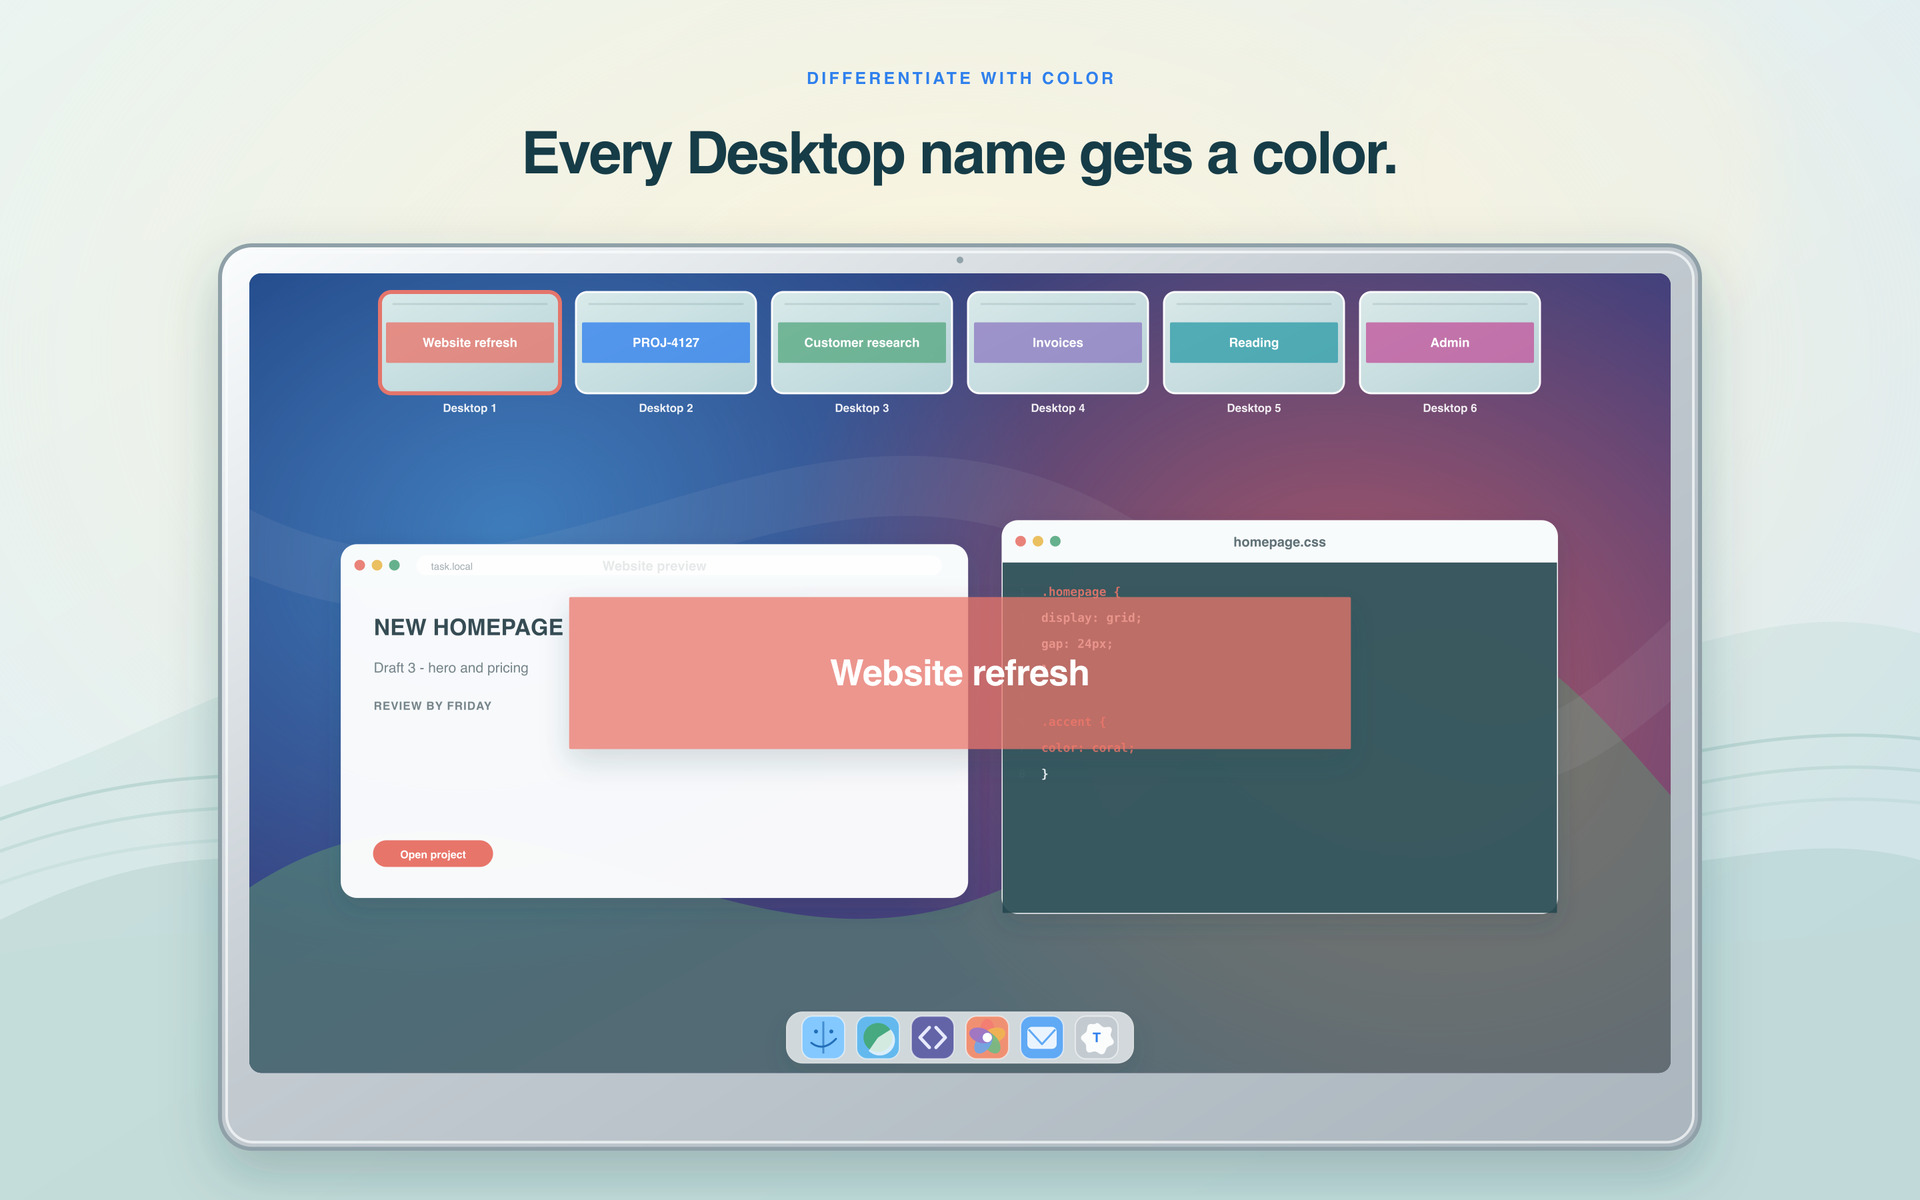
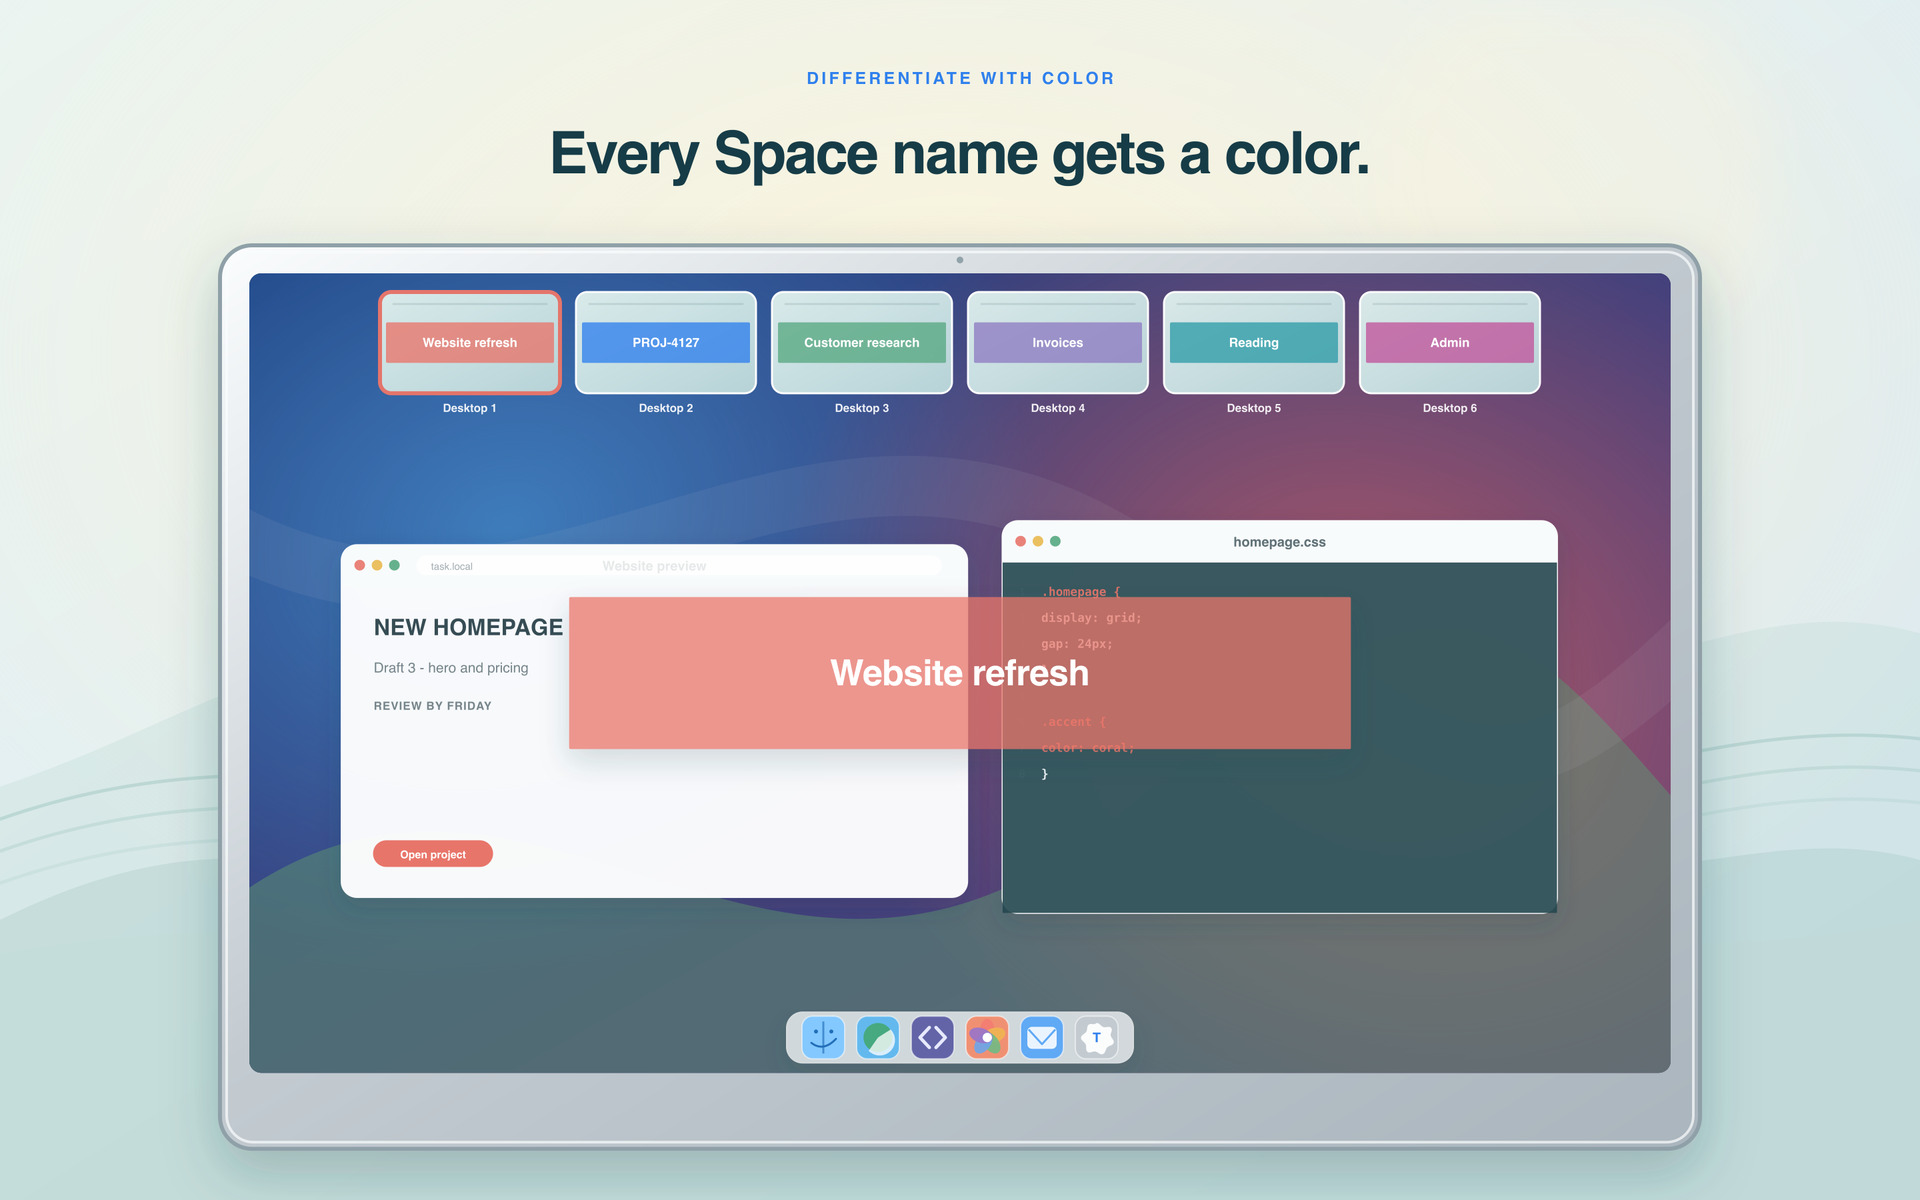
new is better

Changed region(s): [[0.25, 0.0925, 0.7188, 0.1542]]

diff --git a/support/index.html b/support/index.html
@@ -177,7 +177,7 @@
     </a>
 
     <h1>Support</h1>
-    <p class="intro"><strong>Version 1.1.0.</strong> Task is a small macOS menu-bar app that gives each numbered Mission Control Desktop a name, keeps that name visible in the Mission Control overview, and shows the Desktop you are on in the menu bar.</p>
+    <p class="intro"><strong>Version 1.1.0.</strong> Task is a small macOS menu-bar app that gives each macOS Space a meaningful name, keeps that name visible in the Mission Control overview, and shows your current numbered Desktop in the menu bar.</p>
 
     <section>
       <h2>Getting started</h2>
@@ -190,14 +190,14 @@
       <p>The tag-shaped menu-bar icon contains the current numbered Desktop. Fullscreen and Split View Spaces leave the tag unnumbered, and carry no badge, because macOS does not assign them a Desktop number.</p>
       <figure class="setup-figure">
         <img src="/screenshots/task_best_mission_control_configuration.png" width="1344" height="942" loading="lazy" alt="macOS Mission Control keyboard shortcuts configured for moving left and right and switching directly to Desktops 1 through 9">
-        <figcaption>A good keyboard configuration for Task: keep the shortcuts for moving left and right, and assign Control–1 through Control–9 to numbered Desktops. You can switch directly or browse sequentially while Task shows the name of the Desktop where you land.</figcaption>
+        <figcaption>A good keyboard configuration for Task: keep the shortcuts for moving left and right, and assign Control–1 through Control–9 to numbered Desktops. You can switch directly or browse sequentially while Task shows the name of the Space where you land.</figcaption>
       </figure>
     </section>
 
     <section>
-      <h2>Name your Desktops</h2>
-      <p>Click the Task menu-bar icon. The text field at the top of the menu holds the current Desktop’s name, already selected, so you can type straight over it. The name is saved when you press Return, click elsewhere, or close the menu.</p>
-      <p>For bulk edits, choose <strong>Configuration…</strong>. Task opens the local plain-text file in your default text editor. Add one numbered name per line:</p>
+      <h2>Name your Spaces</h2>
+      <p>Click the Task menu-bar icon. The text field at the top of the menu holds the current Space’s name, already selected, so you can type straight over it. The name is saved when you press Return, click elsewhere, or close the menu.</p>
+      <p>For bulk edits, choose <strong>Configuration…</strong>. Task opens the local plain-text file in your default text editor. Add one numbered Space name per line:</p>
       <pre># Task configuration
 # This file is managed by Task. Manual edits are supported, but Task
 # normalizes formatting and discards custom comments and unknown keys when saving.
@@ -219,35 +219,35 @@ differentiateWithColor = true
 2.color = #2F80ED</pre>
       <p>The file is stored locally at:</p>
       <p><code>~/Library/Containers/com.500nits.Task/Data/Library/Application Support/Task/spaces.txt</code></p>
-      <p>Task does not overwrite the file when it launches or when you switch Desktops. It writes when you rename a Desktop, release the splash-duration slider, toggle <strong>Differentiate with Color</strong>, refresh the workspaces, or complete a verified numbered-Desktop reorder in Mission Control.</p>
-      <p><code>spaces.txt</code> is an app-owned canonical file. When Task writes it, duplicate entries collapse to their last value, custom comments, unknown keys and custom formatting are removed, and entries beyond the live Desktop count are dropped. Every live Desktop always ends up with a concrete name; a missing or cleared entry is written back as <code>Task N</code>.</p>
-      <p>If you drag numbered Desktops into a new order in Mission Control, Task uses their stable identities to move each name — and its colour — to its new Desktop number automatically.</p>
+      <p>Task does not overwrite the file when it launches or when you switch Spaces. It writes when you rename a Space, release the splash-duration slider, toggle <strong>Differentiate with Color</strong>, refresh the workspaces, or complete a verified numbered-Desktop reorder in Mission Control.</p>
+      <p><code>spaces.txt</code> is an app-owned canonical file. When Task writes it, duplicate entries collapse to their last value, custom comments, unknown keys and custom formatting are removed, and entries beyond the number of Spaces you actually have are dropped. Every live Space always ends up with a concrete name; a missing or cleared entry is written back as <code>Task N</code>.</p>
+      <p>If you drag your Spaces into a new order in Mission Control, Task uses their stable identities to move each name — and its color — to its new Desktop number automatically.</p>
     </section>
 
     <section>
       <h2>Names in Mission Control</h2>
-      <p>Each named Desktop carries one large badge across the middle of its thumbnail. The badge uses the full available screen width at a fixed size; a name too long for one line splits over two, and a name that still does not fit displays <code>overflown</code>.</p>
-      <p>Badges appear when you open Mission Control, and briefly after you move to another Desktop. The rest of the time they stay invisible and your screen is unobstructed, including in Application Windows.</p>
+      <p>Each named Space carries one large badge across the middle of its thumbnail. The badge uses the full available screen width at a fixed size; a name too long for one line splits over two, and a name that still does not fit displays <code>overflown</code>.</p>
+      <p>Badges appear when you open Mission Control, and briefly after you move to another Space. The rest of the time they stay invisible and your screen is unobstructed, including in Application Windows.</p>
     </section>
 
     <section>
       <h2>Differentiate with Color</h2>
-      <p>Click the Task menu-bar icon and choose <strong>Differentiate with Color</strong>. Each named Desktop is given its own colour, distributed across the full spectrum and randomly rotated, so neighbouring Desktops stay easy to tell apart.</p>
-      <p>Colours are written into <code>spaces.txt</code> as <code>N.color</code> entries and survive ordinary relaunches. Switching the option off and back on generates a fresh set. To choose your own, edit the file and give a three- or six-digit HTML hex colour; Task stores the canonical six-digit <code>#RRGGBB</code> form.</p>
+      <p>Click the Task menu-bar icon and choose <strong>Differentiate with Color</strong>. Each named Space is given its own color, distributed across the full spectrum and randomly rotated, so Spaces next to each other stay easy to tell apart.</p>
+      <p>Colors are written into <code>spaces.txt</code> as <code>N.color</code> entries and survive ordinary relaunches. Switching the option off and back on generates a fresh set. To choose your own, edit the file and give a three- or six-digit HTML hex color; Task stores the canonical six-digit <code>#RRGGBB</code> form.</p>
     </section>
 
     <section>
       <h2>Set the splash duration</h2>
-      <p>Click the Task icon and use the <strong>Splash duration</strong> slider. It controls how long a Desktop’s badge stays visible after you move to that Desktop. Choose any value from 0.0 to 5.0 seconds; the default is 1.5 seconds, and 0.0 turns the switching badge off while leaving the Mission Control badge in place.</p>
+      <p>Click the Task icon and use the <strong>Splash duration</strong> slider. It controls how long a Space’s badge stays visible after you move to it. Choose any value from 0.0 to 5.0 seconds; the default is 1.5 seconds, and 0.0 turns the switching badge off while leaving the Mission Control badge in place.</p>
       <p>The value is saved when you release the slider, as <code>splashDuration</code> in <code>spaces.txt</code>. If that setting is missing or invalid, Task uses the 1.5-second default without rewriting the file.</p>
     </section>
 
     <section>
       <h2>When Task appears</h2>
-      <p>A Desktop’s name is shown:</p>
+      <p>A Space’s name is shown:</p>
       <ul>
         <li>across its thumbnail whenever Mission Control is open;</li>
-        <li>on screen for the splash duration when you move to that Desktop.</li>
+        <li>on screen for the splash duration when you move to that Space.</li>
       </ul>
       <p>If you use more than one display, Task shows the name on every connected display.</p>
     </section>
@@ -256,10 +256,10 @@ differentiateWithColor = true
       <h2>Menu-bar controls</h2>
       <p>The small number inside Task’s tag shows the current numbered Desktop. Click the icon for:</p>
       <ul>
-        <li>the editable name of the current Desktop;</li>
+        <li>the editable name of the current Space;</li>
         <li><strong>Differentiate with Color</strong>;</li>
         <li>the <strong>Splash duration</strong> slider;</li>
-        <li><strong>Refresh Workspaces</strong>, which rereads <code>spaces.txt</code>, reconciles the badges against the Desktops that are actually there, and shows the current Desktop’s badge so you can see it worked;</li>
+        <li><strong>Refresh Workspaces</strong>, which rereads <code>spaces.txt</code>, reconciles the badges against the Spaces that are actually there, and shows the current Desktop’s badge so you can see it worked;</li>
         <li><strong>Configuration…</strong>, which opens <code>spaces.txt</code> in your default text editor;</li>
         <li><strong>Start at Login</strong>, always opt-in — Task never enables it for you;</li>
         <li><strong>About Task</strong> and <strong>Quit Task</strong>.</li>
@@ -274,13 +274,13 @@ differentiateWithColor = true
     <section>
       <h2>Troubleshooting</h2>
       <h3>The wrong name appears</h3>
-      <p>Confirm that both Mission Control settings listed above are off, then check that the number in <code>spaces.txt</code> matches the Desktop’s position in Mission Control. <strong>Refresh Workspaces</strong> reconciles the two.</p>
+      <p>Confirm that both Mission Control settings listed above are off, then check that the number in <code>spaces.txt</code> matches the Space’s position in Mission Control. <strong>Refresh Workspaces</strong> reconciles the two.</p>
 
       <h3>No name appears after editing</h3>
-      <p>Edits in the menu field save when you press Return, click elsewhere, or close the menu. If you edit the full configuration instead, save it as plain text and keep one mapping per line in the form <code>number = name</code>. Then switch Desktops or choose <strong>Refresh Workspaces</strong>.</p>
+      <p>Edits in the menu field save when you press Return, click elsewhere, or close the menu. If you edit the full configuration instead, save it as plain text and keep one mapping per line in the form <code>number = name</code>. Then switch Spaces or choose <strong>Refresh Workspaces</strong>.</p>
 
       <h3>No badge appears in Mission Control</h3>
-      <p>Only named numbered Desktops get a badge. Fullscreen and Split View Spaces never do. If a numbered Desktop is missing its badge, choose <strong>Refresh Workspaces</strong>.</p>
+      <p>Only a named Space with a Desktop number gets a badge. Fullscreen and Split View Spaces never do. If a numbered Space is missing its badge, choose <strong>Refresh Workspaces</strong>.</p>
 
       <h3>Task is not visible</h3>
       <p>Look for its numbered tag-shaped icon in the macOS menu bar. If the menu bar is crowded, macOS or a menu-bar manager may have hidden it.</p>

diff --git a/index.html b/index.html
@@ -4,12 +4,12 @@
   <meta charset="utf-8">
   <meta name="viewport" content="width=device-width, initial-scale=1">
   <title>Task: Name your macOS Spaces</title>
-  <meta name="description" content="Name your macOS Desktops and read those names straight off the Mission Control overview. Task shows the current Desktop in the menu bar and gives every named Desktop its own colour.">
+  <meta name="description" content="Name your macOS Spaces and read those names straight off the Mission Control overview. Task shows your current numbered Desktop in the menu bar and gives every named Space its own color.">
   <link rel="canonical" href="https://task.500nits.com/">
   <link rel="icon" sizes="32x32" href="/favicon.ico" />
   <link rel="icon" type="image/svg+xml" href="/favicon.svg" />
   <meta property="og:title" content="Task: Name your macOS Spaces">
-  <meta property="og:description" content="macOS gives you Desktop 1, Desktop 2, Desktop 3. Task gives them names and writes each one across its thumbnail in Mission Control.">
+  <meta property="og:description" content="Give each macOS Space a name, see it written across its thumbnail in Mission Control, and tell your Spaces apart by color.">
   <meta property="og:url" content="https://task.500nits.com/">
   <meta property="og:type" content="website">
   <meta property="og:image" content="https://task.500nits.com/icon.png">
@@ -289,35 +289,35 @@
       <img src="/screenshots/task-menu-bar.png" width="2172" height="724" alt="macOS menu bar showing Task on Desktop 9">
     </div>
     <p class="eyebrow">Version 1.1.0 · A tiny macOS menu-bar app</p>
-    <h1>Know which Desktop is which.</h1>
-    <p class="intro">macOS gives you Desktop 1, Desktop 2, Desktop 3. Task gives them names and writes each name across its thumbnail in Mission Control, so the overview tells you where everything is. The menu-bar tag shows the Desktop you are on right now.</p>
+    <h1>Know what every Space is for.</h1>
+    <p class="intro">Task gives each macOS Space a meaningful name, then writes that name across its thumbnail in Mission Control, so the overview tells you where everything is. The menu-bar tag shows your current numbered Desktop at a glance.</p>
     <a class="cta" href="https://apps.apple.com/app/id6793942588">Download on the Mac App Store</a>
     <p class="requirement">Task needs two Mission Control settings turned off in System Settings → Desktop &amp; Dock: <strong>Displays have separate Spaces</strong> and <strong>Automatically rearrange Spaces based on most recent use</strong>.</p>
     <div class="screenshots">
-      <img src="/screenshots/mission-control.jpg" width="1920" height="1200" alt="Mission Control with seven Desktops, each thumbnail labelled with its name, and the current Desktop showing a large Customer research badge">
-      <img src="/screenshots/name-the-desktop.jpg" width="1920" height="1200" loading="lazy" alt="Task's menu open from the menu bar with the current Desktop name PROJ-4127 in an editable field">
-      <img src="/screenshots/differentiate-with-color.jpg" width="1920" height="1200" loading="lazy" alt="Mission Control with six named Desktops, each label drawn in a different colour">
+      <img src="/screenshots/mission-control.jpg" width="1920" height="1200" alt="Mission Control with seven Spaces, each thumbnail labelled with its name, and the current Space showing a large Customer research badge">
+      <img src="/screenshots/name-the-space.jpg" width="1920" height="1200" loading="lazy" alt="Task's menu open from the menu bar with the current Space name PROJ-4127 in an editable field">
+      <img src="/screenshots/differentiate-with-color.jpg" width="1920" height="1200" loading="lazy" alt="Mission Control with six named Spaces, each label drawn in a different color">
     </div>
     <section class="features" aria-label="Task features">
       <article class="feature">
         <h2>Names in Mission Control</h2>
-        <p>Every named Desktop carries a large badge across the middle of its thumbnail, split over two lines when the name is long.</p>
+        <p>Every named Space carries a large badge across the middle of its thumbnail, split over two lines when the name is long.</p>
       </article>
       <article class="feature">
         <h2>Differentiate with Color</h2>
-        <p>Each named Desktop takes its own colour from across the spectrum. Colours are saved and survive relaunches.</p>
+        <p>Each named Space takes its own color from across the spectrum. Colors are saved and survive relaunches.</p>
       </article>
       <article class="feature">
-        <h2>Rename from the menu bar</h2>
-        <p>Click the numbered tag. The current name arrives selected, so you can type straight over it.</p>
+        <h2>Rename in place</h2>
+        <p>Click the menu-bar tag. The current name arrives selected, so you can type straight over it.</p>
       </article>
       <article class="feature">
         <h2>Reordering keeps up</h2>
-        <p>Drag Desktops into a new order and each name and colour travels with its own Desktop, not with the number.</p>
+        <p>Drag your Spaces into a new order and each name and color travels with its own Space, not with the Desktop number.</p>
       </article>
       <article class="feature">
         <h2>Your Desktop, at a glance</h2>
-        <p>The menu-bar tag holds the current Desktop number. Fullscreen and Split View Spaces leave it blank, because macOS gives them no number.</p>
+        <p>The menu-bar tag shows the current Desktop number. Fullscreen and Split View Spaces leave it blank, because macOS gives them no number.</p>
       </article>
       <article class="feature">
         <h2>Small and local</h2>
@@ -327,8 +327,8 @@
     <section class="release" aria-label="What is new in version 1.1.0">
       <h2>New in 1.1.0</h2>
       <ul>
-        <li>Named Desktops keep their badge in Mission Control, rather than showing it only for a moment as you switch.</li>
-        <li><strong>Differentiate with Color</strong> gives every named Desktop its own colour, saved alongside its name.</li>
+        <li>Named Spaces keep their badge in Mission Control, rather than showing it only for a moment as you switch.</li>
+        <li><strong>Differentiate with Color</strong> gives every named Space its own color, saved alongside its name.</li>
         <li>Renaming is quicker: the field in the menu opens with the current name selected and saves when you finish.</li>
       </ul>
     </section>
@@ -352,7 +352,7 @@ differentiateWithColor = true
 <span class="comment"># Per-Desktop badge colours</span>
 1.color = #E8756A
 2.color = #2F80ED</div>
-    <p class="note">Names, colours and settings live in this one local file. Open it from Task's menu and edit it by hand, or let Task write it as you rename Desktops. Task follows the system’s light or dark appearance.</p>
+    <p class="note">Space names, their colors and the splash duration live in this one local file. Open it from Task’s menu and edit it by hand, or let Task write it as you rename Spaces. Task follows the system’s light or dark appearance.</p>
     <footer>
       <a href="https://500nits.com/">500nits</a>
       <a href="/support/">Support</a>
